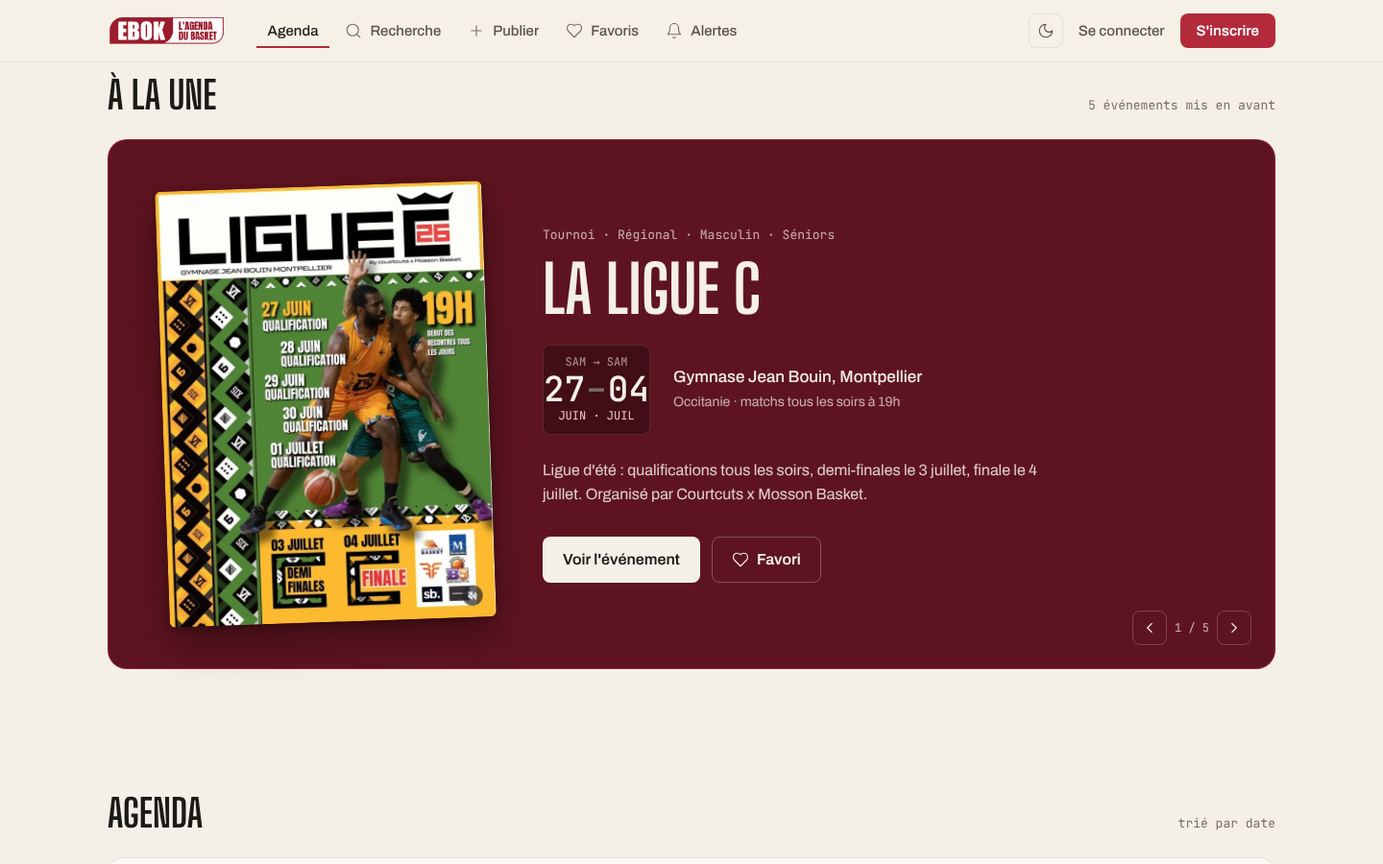
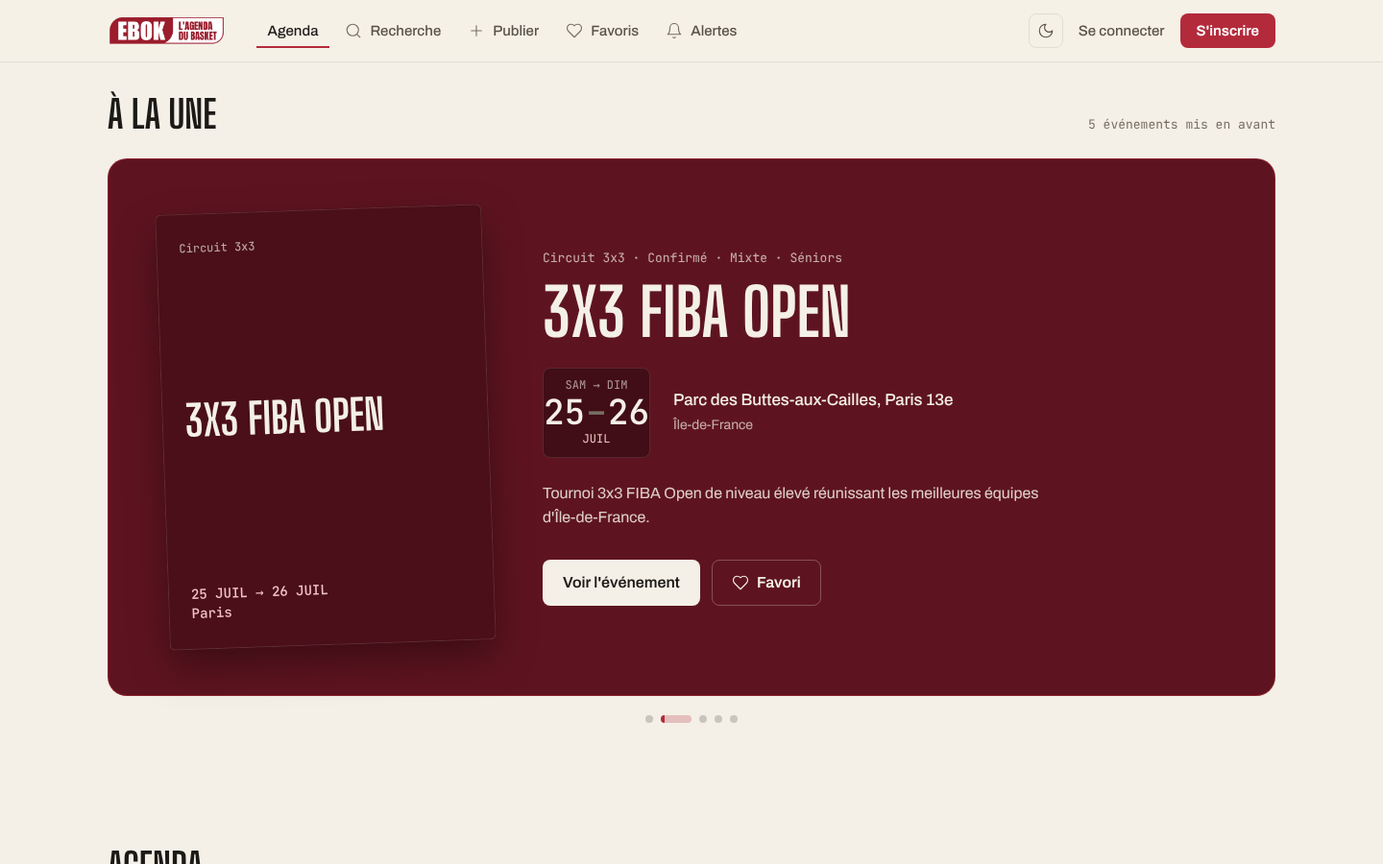
Maquette accueil v3 : recherche par nom, carrousel à points, pastilles bordeaux, planche de typos
Claude-Session: https://claude.ai/code/session_01XyUKpsj1AWNnaW1cNftfQd

Changed region(s): [[0.0625, 0.0933, 0.9375, 0.84], [0.0625, 0.9022, 0.1562, 1.0], [0.875, 0.9333, 0.9062, 0.9644]]

diff --git a/maquettes/unslop/accueil.html b/maquettes/unslop/accueil.html
@@ -80,6 +80,17 @@ h1 span{color:var(--accent);display:block}
 .search input::placeholder{color:var(--ink-3)}
 .search input::-webkit-search-cancel-button{-webkit-appearance:none}
 .search .btn{height:48px}
+.searchbox{position:relative}
+.suggest{position:absolute;left:0;right:0;top:calc(100% + 6px);z-index:5;background:var(--card);border:1px solid var(--line-2);border-radius:12px;padding:6px;box-shadow:0 12px 32px rgba(28,26,23,.12);margin:0;list-style:none}
+.suggest[hidden]{display:none}
+.suggest li{display:flex;align-items:center;gap:12px;padding:8px 10px;border-radius:8px;cursor:pointer}
+.suggest li[aria-selected=true],.suggest li:hover{background:var(--raised)}
+.suggest .sg-d{flex:none;width:64px;font:500 12px/16px var(--mono);color:var(--accent-ink)}
+.suggest .sg-t{font-weight:500;min-width:0;white-space:nowrap;overflow:hidden;text-overflow:ellipsis}
+.suggest .sg-c{margin-left:auto;font:400 12px var(--mono);color:var(--ink-3);white-space:nowrap}
+.suggest mark{background:none;color:inherit;text-decoration:underline;text-decoration-color:var(--accent);text-underline-offset:3px;text-decoration-thickness:2px}
+.suggest .sg-head{font:400 11px/16px var(--mono);color:var(--ink-3);padding:4px 10px 6px;cursor:default}
+.suggest .sg-head:hover{background:none}
 .understood{font:400 12px/16px var(--mono);color:var(--ink-3);margin:10px 0 0;min-height:16px}
 .understood b{font-weight:500;color:var(--ink)}
 .publish{display:flex;align-items:center;gap:12px;margin-top:28px;padding-top:20px;border-top:1px solid var(--line);color:var(--ink-2)}
@@ -109,7 +120,9 @@ h1 span{color:var(--accent);display:block}
 .pin circle{fill:var(--ink);stroke:var(--card);stroke-width:2}
 .pin-n{font:500 11px var(--mono);fill:var(--chalk);text-anchor:middle}
 .pin-l{font:500 12px var(--mono);fill:var(--ink);paint-order:stroke;stroke:#E7DFCF;stroke-width:4px;stroke-linejoin:round}
-.pin-feat circle{fill:var(--accent)}
+.pin-multi circle{fill:var(--accent)}
+.pin .ring{fill:none;stroke:var(--ink);stroke-width:2}
+.pin-feat:not(.pin-multi) circle.dot{fill:var(--accent)}
 .callout{opacity:0;transition:opacity .3s var(--ease)}
 .callout.on{opacity:1}
 .callout path{stroke:var(--ink);stroke-width:1.5;fill:none}
@@ -152,7 +165,7 @@ h2{font-family:var(--display);font-weight:var(--dw);font-size:40px;line-height:1
 .head .count{font-size:13px}
 
 /* à la une : fond bordeaux */
-.une{display:grid;grid-template-columns:340px minmax(0,1fr);gap:56px;align-items:center;background:var(--bordeaux);color:var(--chalk);border:1px solid rgba(179,42,59,.55);border-radius:20px;padding:48px 56px;position:relative}
+.une{display:grid;grid-template-columns:340px minmax(0,1fr);gap:56px;align-items:center;background:var(--bordeaux);color:var(--chalk);border:1px solid rgba(179,42,59,.55);border-radius:20px;padding:48px 56px;position:relative;min-height:560px}
 .poster{width:100%;height:auto;aspect-ratio:700/934;object-fit:cover;border-radius:6px;transform:rotate(-2deg);box-shadow:0 18px 40px rgba(0,0,0,.35),0 2px 6px rgba(0,0,0,.3)}
 .une-meta{font:400 13px/20px var(--mono);color:rgba(244,240,231,.7);margin:0 0 12px}
 .une h3{font-family:var(--display);font-weight:var(--dw);font-size:68px;line-height:1;letter-spacing:var(--dtrack);text-transform:var(--dcase);margin:0 0 24px}
@@ -169,9 +182,20 @@ h2{font-family:var(--display);font-weight:var(--dw);font-size:40px;line-height:1
 .btn-chalk:hover{background:#fff}
 .une .btn-line{background:transparent;border-color:rgba(244,240,231,.28);color:var(--chalk)}
 .une .btn-line:hover{background:rgba(244,240,231,.1)}
-.une-nav{position:absolute;right:24px;bottom:24px;display:flex;align-items:center;gap:8px;font:400 12px var(--mono);color:rgba(244,240,231,.7)}
-.une-nav button{width:36px;height:36px;border-radius:8px;border:1px solid rgba(244,240,231,.22);background:none;color:var(--chalk);display:grid;place-items:center}
-.une-nav button:hover{background:rgba(244,240,231,.1)}
+.une-in{display:contents}
+.une>*{transition:opacity .2s var(--ease)}
+.une.swap>*{opacity:0}
+.poster-vide{width:100%;aspect-ratio:700/934;border-radius:6px;transform:rotate(-2deg);background:#4A0F19;box-shadow:0 18px 40px rgba(0,0,0,.35),inset 0 0 0 1px rgba(244,240,231,.14);display:flex;flex-direction:column;justify-content:space-between;padding:28px 24px}
+.poster-vide .pv-t{font:400 12px/16px var(--mono);color:rgba(244,240,231,.7)}
+.poster-vide .pv-n{font-family:var(--display);font-weight:var(--dw);text-transform:var(--dcase);letter-spacing:var(--dtrack);font-size:44px;line-height:1;color:var(--chalk)}
+.poster-vide .pv-c{font:500 14px/20px var(--mono);color:#F2C2C8}
+.dots{display:flex;justify-content:center;gap:8px;margin-top:20px}
+.dots button{width:8px;height:8px;padding:0;border:0;border-radius:4px;background:rgba(28,26,23,.2);position:relative;overflow:hidden;transition:width .3s var(--ease),background-color .2s var(--ease)}
+.dots button:hover{background:rgba(28,26,23,.35)}
+.dots button[aria-current=true]{width:32px;background:rgba(179,42,59,.25)}
+.dots button[aria-current=true]::after{content:"";position:absolute;inset:0;background:var(--accent);transform-origin:left;transform:scaleX(0);animation:fill var(--dur,6s) linear forwards}
+.dots.pause button[aria-current=true]::after{animation-play-state:paused}
+@keyframes fill{to{transform:scaleX(1)}}
 
 /* agenda */
 .agenda{background:var(--card);border:1px solid var(--line);border-radius:16px;overflow:hidden}
@@ -232,10 +256,10 @@ footer{border-top:1px solid var(--line);margin-top:32px;padding:48px 0 32px}
   .zoom{top:8px;right:8px}
   section.block{padding:48px 0}
   h2{font-size:30px}
-  .une{grid-template-columns:1fr;padding:32px 20px 80px;gap:32px}
-  .poster{max-width:240px;margin:0 auto}
+  .une{grid-template-columns:1fr;padding:32px 20px 40px;gap:32px;min-height:0}
+  .poster,.poster-vide{max-width:240px;margin:0 auto}
+  .suggest .sg-c{display:none}
   .une h3{font-size:44px}
-  .une-nav{right:20px;bottom:20px}
   .row{gap:16px;padding:12px 16px}
   .row-t{font-size:16px;white-space:normal}
   .foot{grid-template-columns:1fr;gap:32px}
@@ -272,12 +296,15 @@ footer{border-top:1px solid var(--line);margin-top:32px;padding:48px 0 32px}
       <p class="kicker"><b>20</b> événements · <b>13</b> villes · France, Belgique, Suisse, Québec</p>
       <h1 id="titre">Partout où <span>ça joue</span></h1>
       <p class="sub">Tournois, camps, 3x3, détections : tout le basket francophone sur une seule carte.</p>
+      <div class="searchbox">
       <form class="search" id="search" role="search">
         <svg class="ic" viewBox="0 0 24 24" aria-hidden="true"><circle cx="11" cy="11" r="8"/><path d="m21 21-4.3-4.3"/></svg>
-        <input id="q" type="search" placeholder="Un camp à Lyon en juillet" aria-label="Rechercher un événement" autocomplete="off">
+        <input id="q" type="search" placeholder="Un camp à Lyon en juillet" aria-label="Rechercher un événement" autocomplete="off" role="combobox" aria-controls="suggest" aria-expanded="false">
         <button class="btn btn-ink" type="submit">Chercher</button>
       </form>
-      <p class="understood" id="understood" aria-live="polite"></p>
+      <ul class="suggest" id="suggest" role="listbox" hidden></ul>
+      </div>
+      <p class="understood" id="understood" aria-live="polite">Un type, une ville, un mois ou le nom d'un événement</p>
       <div class="publish">
         <span>Tu organises un événement ?</span>
         <a class="btn btn-line" href="#"><svg class="ic" viewBox="0 0 24 24" aria-hidden="true"><path d="M5 12h14"/><path d="M12 5v14"/></svg>Publier un événement</a>
@@ -315,23 +342,8 @@ footer{border-top:1px solid var(--line);margin-top:32px;padding:48px 0 32px}
 
   <section class="block" aria-labelledby="une">
     <div class="head"><h2 id="une">À la une</h2><span class="count">5 événements mis en avant</span></div>
-    <article class="une">
-      <img class="poster" src="assets/demo-ligue-c.jpg" alt="Affiche de La Ligue C 2026, gymnase Jean Bouin à Montpellier" width="700" height="934">
-      <div>
-        <p class="une-meta">Tournoi · Régional · Masculin · Séniors</p>
-        <h3>La Ligue C</h3>
-        <div class="une-row">
-          <span class="score score-big"><span class="sc-d">SAM → SAM</span><span class="sc-n">27<i>–</i>04</span><span class="sc-m">JUIN · JUIL</span></span>
-          <div class="une-where"><strong>Gymnase Jean Bouin, Montpellier</strong><span>Occitanie · matchs tous les soirs à 19h</span></div>
-        </div>
-        <p class="desc">Ligue d'été : qualifications tous les soirs, demi-finales le 3 juillet, finale le 4 juillet. Organisé par Courtcuts x Mosson Basket.</p>
-        <div class="actions">
-          <a class="btn btn-chalk btn-lg" href="#">Voir l'événement</a>
-          <a class="btn btn-line btn-lg" href="#"><svg class="ic" viewBox="0 0 24 24" aria-hidden="true"><path d="M19 14c1.49-1.46 3-3.21 3-5.5A5.5 5.5 0 0 0 16.5 3c-1.76 0-3 .5-4.5 2-1.5-1.5-2.74-2-4.5-2A5.5 5.5 0 0 0 2 8.5c0 2.3 1.5 4.05 3 5.5l7 7Z"/></svg>Favori</a>
-        </div>
-      </div>
-      <div class="une-nav"><button type="button" aria-label="Précédent"><svg class="ic" viewBox="0 0 24 24" aria-hidden="true"><path d="m15 18-6-6 6-6"/></svg></button><span>1 / 5</span><button type="button" aria-label="Suivant"><svg class="ic" viewBox="0 0 24 24" aria-hidden="true"><path d="m9 18 6-6-6-6"/></svg></button></div>
-    </article>
+    <article class="une" id="une-card" aria-live="polite"></article>
+    <div class="dots" id="dots" role="tablist" aria-label="Événements à la une"></div>
   </section>
 
   <section class="block" id="agenda" aria-labelledby="ag">
@@ -394,7 +406,8 @@ footer{border-top:1px solid var(--line);margin-top:32px;padding:48px 0 32px}
 </footer>
 
 <script>
-const EV = [{"t":"La Ligue C","ty":"Tournoi","c":"Montpellier","r":"Occitanie","s":"2026-06-27","e":"2026-07-04","f":true,"xy":[387,464.3]},{"t":"All-Star Game Île-de-France","ty":"All-Star Game","c":"Paris","r":"Île-de-France","s":"2026-07-11","e":"2026-07-11","f":false,"xy":[325,154]},{"t":"Camp d'été Ballers Academy","ty":"Camp","c":"Lyon","r":"Auvergne-Rhône-Alpes","s":"2026-07-13","e":"2026-07-17","f":false,"xy":[426,337]},{"t":"Basket Trip Riviera","ty":"Voyage","c":"Nice","r":"Provence-Alpes-Côte d'Azur","s":"2026-08-03","e":"2026-08-08","f":false,"xy":[524.6,458.5]},{"t":"Summer League Toulouse","ty":"Tournoi","c":"Toulouse","r":"Occitanie","s":"2026-07-20","e":"2026-07-26","f":false,"xy":[288.1,464.7]},{"t":"Camp Filles Ouest Basket","ty":"Camp","c":"Nantes","r":"Pays de la Loire","s":"2026-07-06","e":"2026-07-09","f":false,"xy":[166.3,250.9]},{"t":"Streetball Show Strasbourg","ty":"Show","c":"Strasbourg","r":"Grand Est","s":"2026-07-18","e":"2026-07-18","f":false,"xy":[544.5,170.8]},{"t":"Spring Cup Bordeaux","ty":"Tournoi","c":"Bordeaux","r":"Nouvelle-Aquitaine","s":"2026-05-09","e":"2026-05-10","f":false,"xy":[205.9,391.8]},{"t":"Winter Jam Lille","ty":"Show","c":"Lille","r":"Hauts-de-France","s":"2026-02-14","e":"2026-02-14","f":false,"xy":[353.7,49.2]},{"t":"3x3 FIBA Open — Paris Streetball","ty":"Circuit 3x3","c":"Paris","r":"Île-de-France","s":"2026-07-25","e":"2026-07-26","f":true,"xy":[325,154]},{"t":"3x3 Start Lyon — Découverte","ty":"Circuit 3x3","c":"Lyon","r":"Auvergne-Rhône-Alpes","s":"2026-08-08","e":"2026-08-09","f":false,"xy":[426,337]},{"t":"3x3 Growth Tour — Marseille","ty":"Circuit 3x3","c":"Marseille","r":"Provence-Alpes-Côte d'Azur","s":"2026-07-11","e":"2026-07-12","f":false,"xy":[447.7,482.9]},{"t":"Camp d'été ASVEL — Perfectionnement","ty":"Camp","c":"Lyon","r":"Auvergne-Rhône-Alpes","s":"2026-07-27","e":"2026-07-31","f":true,"xy":[426,337]},{"t":"Camp Feminin Cholet Basket","ty":"Camp","c":"Cholet","r":"Pays de la Loire","s":"2026-08-10","e":"2026-08-14","f":false,"xy":[193.7,260.3]},{"t":"Clinic NBA avec Tony Parker","ty":"Clinic Coachs","c":"Lyon","r":"Auvergne-Rhône-Alpes","s":"2026-07-06","e":"2026-07-06","f":true,"xy":[426,337]},{"t":"Détection NBB — Scouts Pro","ty":"Détections","c":"Limoges","r":"Nouvelle-Aquitaine","s":"2026-06-20","e":"2026-06-20","f":false,"xy":[280.7,332.9]},{"t":"Matchs de Gala — Choc des Générations","ty":"Match Pro","c":"Paris","r":"Île-de-France","s":"2026-09-12","e":"2026-09-12","f":false,"xy":[325,154]},{"t":"Tournoi Handibasket — Open Sud","ty":"Handibasket","c":"Toulouse","r":"Occitanie","s":"2026-06-12","e":"2026-06-14","f":false,"xy":[288.1,464.7]},{"t":"Tournoi Juniors Atlantique","ty":"Tournoi","c":"Nantes","r":"Pays de la Loire","s":"2026-07-19","e":"2026-07-21","f":false,"xy":[166.3,250.9]},{"t":"Voyage Basketball — Semaine Corse","ty":"Voyage","c":"Bastia","r":"Corse","s":"2026-08-16","e":"2026-08-22","f":true,"xy":[613.6,518.2]}];
+const EV = [{"t":"La Ligue C","ty":"Tournoi","c":"Montpellier","r":"Occitanie","s":"2026-06-27","e":"2026-07-04","f":true,"xy":[387,464.3],"lieu":"Gymnase Jean Bouin, Montpellier","niv":"Confirmé","ag":"Séniors","sx":"Masculin","d":"Tournoi ligue d'été qui se joue du 27 juin au 4 juillet 2026 au gymnase Jean Bouin de Montpellier.","p":"assets/demo-ligue-c.jpg"},{"t":"All-Star Game Île-de-France","ty":"All-Star Game","c":"Paris","r":"Île-de-France","s":"2026-07-11","e":"2026-07-11","f":false,"xy":[325,154],"lieu":"COSEC Binet, Paris 19e","niv":"Confirmé","ag":"Séniors","sx":"Mixte","d":"Soirée all-star game réunissant les meilleurs profils street d'Île-de-France : concours de dunks, 3 points contest et match des étoiles devant le public parisien.","p":""},{"t":"Camp d'été Ballers Academy","ty":"Camp","c":"Lyon","r":"Auvergne-Rhône-Alpes","s":"2026-07-13","e":"2026-07-17","f":false,"xy":[426,337],"lieu":"Halle Diagana, Lyon","niv":"Amateur","ag":"Ados","sx":"Mixte","d":"Camp d'entraînement sur 5 jours pour ados : fondamentaux, ateliers tir, préparation physique et tournoi de clôture le vendredi.","p":""},{"t":"Basket Trip Riviera","ty":"Voyage","c":"Nice","r":"Provence-Alpes-Côte d'Azur","s":"2026-08-03","e":"2026-08-08","f":false,"xy":[524.6,458.5],"lieu":"Plages du Prado & terrains extérieurs, Nice","niv":"Loisir","ag":"Séniors","sx":"Mixte","d":"Une semaine sur la Côte d'Azur mêlant basket outdoor, plage et soirées : tournois 3x3 en journée, sessions libres et activités entre joueurs venus de toute la France.","p":""},{"t":"Summer League Toulouse","ty":"Tournoi","c":"Toulouse","r":"Occitanie","s":"2026-07-20","e":"2026-07-26","f":false,"xy":[288.1,464.7],"lieu":"Gymnase du Mirail, Toulouse","niv":"Semi-pro / Pro","ag":"Séniors","sx":"Masculin","d":"Compétition en poules puis phase finale à élimination directe, ouverte aux équipes régionales confirmées.","p":""},{"t":"Camp Filles Ouest Basket","ty":"Camp","c":"Nantes","r":"Pays de la Loire","s":"2026-07-06","e":"2026-07-09","f":false,"xy":[166.3,250.9],"lieu":"Complexe sportif Beaulieu, Nantes","niv":"Amateur","ag":"Ados","sx":"Féminin","d":"Camp dédié aux jeunes joueuses : renforcement technique, préparation mentale et rencontre avec des joueuses professionnelles de la région.","p":""},{"t":"Streetball Show Strasbourg","ty":"Show","c":"Strasbourg","r":"Grand Est","s":"2026-07-18","e":"2026-07-18","f":false,"xy":[544.5,170.8],"lieu":"Place Kléber, Strasbourg","niv":"Loisir","ag":"Séniors","sx":"Mixte","d":"Exhibition en plein cœur de ville : freestyle, dunks et animations musicales pour un show basket ouvert à tous les publics.","p":""},{"t":"Spring Cup Bordeaux","ty":"Tournoi","c":"Bordeaux","r":"Nouvelle-Aquitaine","s":"2026-05-09","e":"2026-05-10","f":false,"xy":[205.9,391.8],"lieu":"Palais des Sports, Bordeaux","niv":"Amateur","ag":"Séniors","sx":"Mixte","d":"Tournoi de printemps en 5x5, deux jours de poules et phase finale.","p":""},{"t":"Winter Jam Lille","ty":"Show","c":"Lille","r":"Hauts-de-France","s":"2026-02-14","e":"2026-02-14","f":false,"xy":[353.7,49.2],"lieu":"Grand Palais, Lille","niv":"Loisir","ag":"Séniors","sx":"Mixte","d":"Show hivernal indoor avec concours de dunks et animations DJ.","p":""},{"t":"3x3 FIBA Open — Paris Streetball","ty":"Circuit 3x3","c":"Paris","r":"Île-de-France","s":"2026-07-25","e":"2026-07-26","f":true,"xy":[325,154],"lieu":"Parc des Buttes-aux-Cailles, Paris 13e","niv":"Confirmé","ag":"Séniors","sx":"Mixte","d":"Tournoi 3x3 FIBA Open de niveau élevé réunissant les meilleures équipes d'Île-de-France.","p":""},{"t":"3x3 Start Lyon — Découverte","ty":"Circuit 3x3","c":"Lyon","r":"Auvergne-Rhône-Alpes","s":"2026-08-08","e":"2026-08-09","f":false,"xy":[426,337],"lieu":"Parc de la Tête d'Or, Lyon","niv":"Amateur","ag":"Ados","sx":"Mixte","d":"Circuit 3x3 START pour débuter en compétition 3x3.","p":""},{"t":"3x3 Growth Tour — Marseille","ty":"Circuit 3x3","c":"Marseille","r":"Provence-Alpes-Côte d'Azur","s":"2026-07-11","e":"2026-07-12","f":false,"xy":[447.7,482.9],"lieu":"Plage du Prado, Marseille","niv":"Amateur","ag":"Séniors","sx":"Mixte","d":"3x3 Growth Tour sur les plages du Prado — compétition de milieu de gamme, tremplin vers l'Open.","p":""},{"t":"Camp d'été ASVEL — Perfectionnement","ty":"Camp","c":"Lyon","r":"Auvergne-Rhône-Alpes","s":"2026-07-27","e":"2026-07-31","f":true,"xy":[426,337],"lieu":"Pôle France ASVEL, Villeurbanne","niv":"Confirmé","ag":"Ados","sx":"Mixte","d":"Camp d'été du centre de formation ASVEL.","p":""},{"t":"Camp Feminin Cholet Basket","ty":"Camp","c":"Cholet","r":"Pays de la Loire","s":"2026-08-10","e":"2026-08-14","f":false,"xy":[193.7,260.3],"lieu":"Aréna Metz Handball, Cholet","niv":"Amateur","ag":"Ados","sx":"Féminin","d":"Camp d'entraînement féminin spécialisé.","p":""},{"t":"Clinic NBA avec Tony Parker","ty":"Clinic Coachs","c":"Lyon","r":"Auvergne-Rhône-Alpes","s":"2026-07-06","e":"2026-07-06","f":true,"xy":[426,337],"lieu":"Astroballe ASVEL, Villeurbanne","niv":"Confirmé","ag":"Séniors","sx":"Mixte","d":"Masterclass exceptionnelle avec la légende Tony Parker.","p":""},{"t":"Détection NBB — Scouts Pro","ty":"Détections","c":"Limoges","r":"Nouvelle-Aquitaine","s":"2026-06-20","e":"2026-06-20","f":false,"xy":[280.7,332.9],"lieu":"Complexe Beaulieu, Limoges","niv":"Confirmé","ag":"Séniors","sx":"Mixte","d":"Séance de détection organisée par les scouts des clubs professionnels de la NBB.","p":""},{"t":"Matchs de Gala — Choc des Générations","ty":"Match Pro","c":"Paris","r":"Île-de-France","s":"2026-09-12","e":"2026-09-12","f":false,"xy":[325,154],"lieu":"AccorHotels Arena, Paris","niv":"Semi-pro / Pro","ag":"Séniors","sx":"Mixte","d":"Soirée de gala avec matchs opposant les légendes du basketball français aux jeunes talents.","p":""},{"t":"Tournoi Handibasket — Open Sud","ty":"Handibasket","c":"Toulouse","r":"Occitanie","s":"2026-06-12","e":"2026-06-14","f":false,"xy":[288.1,464.7],"lieu":"Palais des Sports de Toulouse","niv":"Confirmé","ag":"Séniors","sx":"Mixte","d":"Tournoi régional handbasket réunissant les équipes du sud.","p":""},{"t":"Tournoi Juniors Atlantique","ty":"Tournoi","c":"Nantes","r":"Pays de la Loire","s":"2026-07-19","e":"2026-07-21","f":false,"xy":[166.3,250.9],"lieu":"Complexe des Oiseaux, Nantes","niv":"Amateur","ag":"Ados","sx":"Mixte","d":"Tournoi U18 interrégional réunissant les meilleures équipes juniors.","p":""},{"t":"Voyage Basketball — Semaine Corse","ty":"Voyage","c":"Bastia","r":"Corse","s":"2026-08-16","e":"2026-08-22","f":true,"xy":[613.6,518.2],"lieu":"Multisports Sporting, Bastia","niv":"Loisir","ag":"Séniors","sx":"Mixte","d":"Une semaine en Corse mêlant basketball, plage et découverte.","p":""}];
+const AIDE = 'Un type, une ville, un mois ou le nom d\'un événement';
 const MOIS_C = ['JANV','FÉVR','MARS','AVR','MAI','JUIN','JUIL','AOÛT','SEPT','OCT','NOV','DÉC'];
 const MOIS_L = ['janvier','février','mars','avril','mai','juin','juillet','août','septembre','octobre','novembre','décembre'];
 const NS = 'http://www.w3.org/2000/svg';
@@ -406,7 +419,7 @@ const VB = { x: 40, y: 20, w: 600, h: 600 };
 
 /* ---- lecture d'une phrase : « un camp à Lyon en juillet » ---- */
 const TYPE_MOTS = [
-  [/3 ?x ?3/, 'Circuit 3x3'], [/\bcamps?\b|\bstages?\b/, 'Camp'], [/tournois?|\bligue/, 'Tournoi'],
+  [/3 ?x ?3/, 'Circuit 3x3'], [/\bcamps?\b|\bstages?\b/, 'Camp'], [/tournois?/, 'Tournoi'],
   [/detections?|recrutement|scout/, 'Détections'], [/clinics?|coachs?\b|formation/, 'Clinic Coachs'],
   [/voyages?|sejours?|\btrip/, 'Voyage'], [/\bshows?\b|streetball|dunk/, 'Show'], [/all.?star/, 'All-Star Game'],
   [/handi/, 'Handibasket'], [/gala|match(s)? pro/, 'Match Pro'],
@@ -422,6 +435,58 @@ function lire(q) {
   return f;
 }
 
+/* ---- recherche par nom ---- */
+const STOP = new Set('je j cherche cherches recherche trouver veux voudrais un une des le la les l a au aux en de du d pour sur mois cet cette ce et pres chez dans vers moi on nous qui avec basket basketball evenement evenements event events'.split(' '));
+const MOIS_N = MOIS_L.map(norm);
+function mots(q) { return norm(q).split(/[^a-z0-9]+/).filter(w => w && !STOP.has(w)); }
+function explique(w, f) {
+  if (TYPE_MOTS.some(([re]) => re.test(w))) return true;
+  if (f.city && norm(f.city) === w) return true;
+  if (w === 'villeurbanne' || w === 'ete' || MOIS_N.includes(w)) return true;
+  if (f.region && norm(f.region).split(/[^a-z]+/).includes(w)) return true;
+  return false;
+}
+const foin = e => norm(e.t + ' ' + e.c + ' ' + e.lieu);
+let nom = [];   // mots du nom recherché, en plus des filtres
+function parNom(e) { const h = foin(e); return nom.every(w => h.includes(w)); }
+
+/* ---- suggestions pendant la frappe ---- */
+let sel = -1, propositions = [];
+function dateCourte(e) { const a = new Date(e.s); return String(a.getDate()).padStart(2, '0') + ' ' + MOIS_C[a.getMonth()]; }
+function souligne(txt, ws) {
+  let out = txt.replace(/&/g, '&amp;').replace(/</g, '&lt;');
+  for (const w of ws) {
+    const n = norm(out), i = n.indexOf(w);
+    if (w.length > 1 && i >= 0) out = out.slice(0, i) + '<mark>' + out.slice(i, i + w.length) + '</mark>' + out.slice(i + w.length);
+  }
+  return out;
+}
+function suggerer() {
+  const ws = mots($('q').value), box = $('suggest');
+  propositions = ws.length && ws.join('').length >= 2 ? EV.filter(e => { const h = foin(e); return ws.every(w => h.includes(w)); }).sort((a, b) => a.s.localeCompare(b.s)).slice(0, 5) : [];
+  sel = -1;
+  if (!propositions.length) { box.hidden = true; $('q').setAttribute('aria-expanded', 'false'); return; }
+  box.innerHTML = '<li class="sg-head" role="presentation">Événements</li>' + propositions.map((e, i) =>
+    `<li role="option" id="sg${i}" data-i="${i}" aria-selected="false"><span class="sg-d">${dateCourte(e)}</span><span class="sg-t">${souligne(e.t, ws)}</span><span class="sg-c">${e.c}</span></li>`).join('');
+  box.hidden = false; $('q').setAttribute('aria-expanded', 'true');
+}
+function fermer() { $('suggest').hidden = true; $('q').setAttribute('aria-expanded', 'false'); sel = -1; }
+function choisir(e) { $('q').value = e.t; fermer(); $('search').requestSubmit(); }
+$('q').addEventListener('input', suggerer);
+$('q').addEventListener('keydown', ev => {
+  const items = [...$('suggest').querySelectorAll('[role=option]')];
+  if ($('suggest').hidden || !items.length) return;
+  if (ev.key === 'ArrowDown' || ev.key === 'ArrowUp') {
+    ev.preventDefault();
+    sel = (sel + (ev.key === 'ArrowDown' ? 1 : -1) + items.length) % items.length;
+    items.forEach((li, i) => li.setAttribute('aria-selected', i === sel));
+    $('q').setAttribute('aria-activedescendant', 'sg' + sel);
+  } else if (ev.key === 'Enter' && sel >= 0) { ev.preventDefault(); choisir(propositions[sel]); }
+  else if (ev.key === 'Escape') fermer();
+});
+$('suggest').addEventListener('mousedown', ev => { const li = ev.target.closest('[data-i]'); if (li) { ev.preventDefault(); choisir(propositions[+li.dataset.i]); } });
+$('q').addEventListener('blur', () => setTimeout(fermer, 100));
+
 /* ---- filtres ---- */
 function filtres() { return { type: $('type').value, city: $('city').value.trim(), region: $('region').value, month: $('month').value }; }
 function poser(f) {
@@ -435,6 +500,7 @@ function marquer() {
   $('fMonth').classList.toggle('set', !!$('month').value);
 }
 function garde(e, f) {
+  if (nom.length && !parNom(e)) return false;
   if (f.type && e.ty !== f.type) return false;
   if (f.city && norm(e.c) !== norm(f.city)) return false;
   if (f.region && e.r !== f.region) return false;
@@ -459,14 +525,15 @@ function dessiner(liste, f) {
   for (const e of liste) (groupes[e.c] ||= []).push(e);
   // l'événement mis en avant : le plus proche en date parmi les résultats (ou La Ligue C sans filtre)
   const tri = [...liste].sort((a, b) => a.s.localeCompare(b.s));
-  const actif = (Object.values(f).some(v => v) ? tri[0] : liste.find(e => e.f && e.c === 'Montpellier')) || null;
+  const actif = (Object.values(f).some(v => v) || nom.length ? tri[0] : liste.find(e => e.f && e.c === 'Montpellier')) || null;
   for (const [c, evs] of Object.entries(groupes)) {
     const [x, y] = evs[0].xy, r = evs.length > 1 ? 11 : 6;
     const feat = actif && actif.c === c;
     const left = LEFT.has(c);
     const dy = c === 'Cholet' ? 14 : c === 'Montpellier' && !f.city ? -10 : 4;
-    const pin = el('g', { class: 'pin' + (feat ? ' pin-feat' : ''), 'data-y': y });
-    pin.append(el('circle', { cx: x, cy: y, r }));
+    const pin = el('g', { class: 'pin' + (feat ? ' pin-feat' : '') + (evs.length > 1 ? ' pin-multi' : ''), 'data-y': y });
+    if (feat) pin.append(el('circle', { class: 'ring', cx: x, cy: y, r: r + 4 }));
+    pin.append(el('circle', { class: 'dot', cx: x, cy: y, r }));
     if (evs.length > 1) pin.append(el('text', { class: 'pin-n', x, y: y + 4 }, evs.length));
     pin.append(el('text', { class: 'pin-l', x: left ? x - r - 6 : x + r + 6, y: y + dy, 'text-anchor': left ? 'end' : 'start' }, c));
     g.append(pin);
@@ -485,7 +552,7 @@ function dessiner(liste, f) {
     co.append(el('text', { class: 'co-t', x: bx + 12, y: by + 46 }, t));
   }
   // régions : celles qui ont un résultat ressortent quand un filtre est posé
-  const filtre = Object.values(f).some(v => v);
+  const filtre = Object.values(f).some(v => v) || nom.length > 0;
   const avec = new Set(liste.map(e => e.r));
   for (const p of $('reg').children) {
     const nom = p.querySelector('title').textContent;
@@ -523,21 +590,69 @@ function appliquer() {
 }
 
 /* ---- branchements ---- */
-['type', 'region', 'month'].forEach(id => $(id).addEventListener('change', () => { $('understood').textContent = ''; appliquer(); }));
-let tCity; $('city').addEventListener('input', () => { clearTimeout(tCity); tCity = setTimeout(appliquer, 400); });
+['type', 'region', 'month'].forEach(id => $(id).addEventListener('change', () => { nom = []; $('understood').textContent = AIDE; appliquer(); }));
+let tCity; $('city').addEventListener('input', () => { clearTimeout(tCity); tCity = setTimeout(() => { nom = []; appliquer(); }, 400); });
 $('search').addEventListener('submit', ev => {
-  ev.preventDefault();
+  ev.preventDefault(); fermer();
   const q = $('q').value.trim();
   const f = lire(q);
+  // les mots qui ne sont ni un type, ni une ville, ni un mois : on les cherche dans les noms
+  const reste = mots(q).filter(w => !explique(w, f));
+  nom = reste.length && EV.some(e => { const h = foin(e); return reste.every(w => h.includes(w)); }) ? reste : [];
+  if (nom.length) { const h = EV.filter(parNom); if (f.city && !h.some(e => e.c === f.city)) f.city = ''; }
   poser(f);
   const liste = appliquer();
-  const mots = [f.type, f.city, f.region, f.month === 'ete' ? 'cet été' : f.month !== '' ? MOIS_L[+f.month] : ''].filter(Boolean);
-  $('understood').innerHTML = q ? (mots.length
-    ? 'Compris : <b>' + mots.join(' · ') + '</b> — ' + liste.length + ' résultat' + (liste.length > 1 ? 's' : '')
-    : 'Je n\'ai pas reconnu de type, de ville ni de mois, essaie « tournoi à Paris en juillet »') : '';
+  const pluriel = n => n + ' résultat' + (n > 1 ? 's' : '');
+  const crit = [f.type, f.city, f.region, f.month === 'ete' ? 'cet été' : f.month !== '' ? MOIS_L[+f.month] : ''].filter(Boolean);
+  let msg = '';
+  if (q && nom.length && liste.length === 1) msg = 'Trouvé : <b>' + liste[0].t + '</b> — ' + liste[0].c + ', ' + dates(liste[0]).toLowerCase();
+  else if (q && nom.length) msg = 'Nom contenant <b>« ' + nom.join(' ') + ' »</b>' + (crit.length ? ' · <b>' + crit.join(' · ') + '</b>' : '') + ' — ' + pluriel(liste.length);
+  else if (q && crit.length) msg = 'Compris : <b>' + crit.join(' · ') + '</b> — ' + pluriel(liste.length) + (reste.length ? ' · aucun événement ne s\'appelle « ' + reste.join(' ') + ' »' : '');
+  else if (q) msg = 'Aucun type, ville, mois ou nom d\'événement reconnu, essaie « tournoi à Paris en juillet » ou « ASVEL »';
+  $('understood').innerHTML = msg;
   if (innerWidth <= 1080) $('fr').scrollIntoView({ behavior: reduce ? 'auto' : 'smooth', block: 'center' });
 });
-document.addEventListener('click', ev => { if (ev.target.closest('[data-reset]')) { poser({ type: '', city: '', region: '', month: '' }); $('q').value = ''; $('understood').textContent = ''; appliquer(); } });
+document.addEventListener('click', ev => { if (ev.target.closest('[data-reset]')) { nom = []; poser({ type: '', city: '', region: '', month: '' }); $('q').value = ''; $('understood').textContent = AIDE; appliquer(); } });
+
+/* ---- À la une : carrousel à petits ronds ---- */
+const UNE = EV.filter(e => e.f).sort((a, b) => (b.c === 'Montpellier') - (a.c === 'Montpellier'));
+const JOURS_C = ['DIM','LUN','MAR','MER','JEU','VEN','SAM'];
+const HEART = document.querySelector('.nav a:nth-child(4) svg').outerHTML;
+function tableau(e) {
+  const a = new Date(e.s), b = new Date(e.e), p = n => String(n).padStart(2, '0');
+  if (e.s === e.e) return `<span class="score score-big"><span class="sc-d">${JOURS_C[a.getDay()]}</span><span class="sc-n">${p(a.getDate())}</span><span class="sc-m">${MOIS_C[a.getMonth()]}</span></span>`;
+  return `<span class="score score-big"><span class="sc-d">${JOURS_C[a.getDay()]} → ${JOURS_C[b.getDay()]}</span><span class="sc-n">${p(a.getDate())}<i>–</i>${p(b.getDate())}</span><span class="sc-m">${MOIS_C[a.getMonth()]}${a.getMonth() !== b.getMonth() ? ' · ' + MOIS_C[b.getMonth()] : ''}</span></span>`;
+}
+function diapo(e) {
+  const affiche = e.p
+    ? `<img class="poster" src="${e.p}" alt="Affiche de ${e.t}" width="700" height="934">`
+    : `<div class="poster-vide" aria-hidden="true"><span class="pv-t">${e.ty}</span><span class="pv-n">${e.t.split(' — ')[0]}</span><span class="pv-c">${dates(e)}<br>${e.c}</span></div>`;
+  return `${affiche}<div>
+    <p class="une-meta">${e.ty} · ${e.niv} · ${e.sx} · ${e.ag}</p>
+    <h3>${e.t.split(' — ')[0]}</h3>
+    <div class="une-row">${tableau(e)}<div class="une-where"><strong>${e.lieu}</strong><span>${e.r}</span></div></div>
+    <p class="desc">${e.d}</p>
+    <div class="actions"><a class="btn btn-chalk btn-lg" href="#">Voir l'événement</a><a class="btn btn-line btn-lg" href="#">${HEART}Favori</a></div>
+  </div>`;
+}
+let cur = 0, tUne;
+const DUREE = 6000;
+function montrer(i, anime) {
+  cur = (i + UNE.length) % UNE.length;
+  const card = $('une-card');
+  const poserDiapo = () => { card.innerHTML = diapo(UNE[cur]); card.classList.remove('swap'); };
+  if (anime && !reduce) { card.classList.add('swap'); setTimeout(poserDiapo, 200); } else poserDiapo();
+  $('dots').innerHTML = UNE.map((e, k) => `<button type="button" role="tab" aria-label="${e.t}" aria-current="${k === cur}" style="--dur:${DUREE}ms"></button>`).join('');
+  clearTimeout(tUne);
+  if (!reduce && !$('dots').classList.contains('pause')) tUne = setTimeout(() => montrer(cur + 1, true), DUREE);
+}
+$('dots').addEventListener('click', ev => { const b = ev.target.closest('button'); if (b) montrer([...$('dots').children].indexOf(b), true); });
+const zone = [$('une-card'), $('dots')];
+zone.forEach(z => {
+  z.addEventListener('mouseenter', () => { $('dots').classList.add('pause'); clearTimeout(tUne); });
+  z.addEventListener('mouseleave', () => { $('dots').classList.remove('pause'); montrer(cur, false); });
+});
+montrer(0, false);
 
 // Entrée : la carte se dessine par un premier balayage
 appliquer();

diff --git a/maquettes/unslop/typos.html b/maquettes/unslop/typos.html
@@ -1,0 +1,48 @@
+<!DOCTYPE html>
+<html lang="fr"><head><meta charset="UTF-8"><meta name="viewport" content="width=device-width, initial-scale=1.0">
+<title>EBOK — planche de typos</title>
+<link rel="preconnect" href="https://fonts.googleapis.com">
+<link href="https://fonts.googleapis.com/css2?family=Anton&family=Oswald:wght@500;600&family=Bebas+Neue&family=Teko:wght@500;600&family=Saira+Condensed:wght@600;700&family=Saira:wght@400;600&family=Exo+2:wght@400;600;700&family=Rajdhani:wght@500;700&family=Orbitron:wght@600;700&family=Oxanium:wght@400;600;700&family=Unbounded:wght@500;600&family=Russo+One&family=Archivo:wght@400;500&family=JetBrains+Mono:wght@400;500&display=swap" rel="stylesheet">
+<style>
+:root{--bg:#F4F0E7;--card:#FBF9F4;--ink:#1C1A17;--ink-2:#5A5248;--ink-3:#776F64;--accent:#B32A3B;--bordeaux:#5E1420;--chalk:#F4F0E7;--line:rgba(28,26,23,.09)}
+*{box-sizing:border-box}body{margin:0;background:var(--bg);color:var(--ink);font:400 15px/22px 'Archivo',sans-serif;padding:40px 32px}
+h1{font:500 22px/28px 'Archivo';margin:0 0 4px}
+.intro{color:var(--ink-2);margin:0 0 32px}
+.grid{display:grid;grid-template-columns:repeat(3,minmax(0,1fr));gap:16px;max-width:1376px}
+.card{background:var(--card);border:1px solid var(--line);border-radius:16px;padding:20px 24px 24px;display:flex;flex-direction:column;gap:14px}
+.meta{display:flex;justify-content:space-between;font:400 12px/16px 'JetBrains Mono',monospace;color:var(--ink-3)}
+.meta b{font-weight:500;color:var(--ink)}
+.h{font-size:56px;line-height:.98;margin:0;text-transform:uppercase}
+.h span{display:block;color:var(--accent)}
+.p{color:var(--ink-2);font-size:16px;line-height:24px;margin:0}
+.une{background:var(--bordeaux);color:var(--chalk);border-radius:10px;padding:14px 16px;display:flex;justify-content:space-between;align-items:baseline}
+.une .t{font-size:30px;line-height:1;text-transform:uppercase}
+.une .d{font:500 12px 'JetBrains Mono',monospace;color:#F2C2C8}
+@media (max-width:900px){.grid{grid-template-columns:1fr}body{padding:24px 16px}}
+</style></head><body>
+<h1>Planche de typos pour EBOK</h1>
+<p class="intro">Même titre, même phrase, même bloc « À la une » dans chaque police. Réponds avec un numéro (ou deux pour mélanger titres et texte).</p>
+<div class="grid" id="g"></div>
+<script>
+const F=[
+ ['Anton','Anton',400,'Archivo','La typo actuelle du site, pour comparer'],
+ ['Oswald','Oswald',600,'Oswald','Celle de la carte Instagram de l\'admin'],
+ ['Bebas Neue','Bebas Neue',400,'Archivo','Affiche de match, très condensée'],
+ ['Teko','Teko',600,'Teko','Sport et tech, compacte'],
+ ['Saira Condensed','Saira Condensed',700,'Saira','Équipementier sportif, nette'],
+ ['Exo 2','Exo 2',700,'Exo 2','Futuriste, se lit bien en texte'],
+ ['Rajdhani','Rajdhani',700,'Rajdhani','Futuriste carrée, tableau d\'affichage'],
+ ['Orbitron','Orbitron',700,'Archivo','Très futuriste, pour les titres seulement'],
+ ['Oxanium','Oxanium',700,'Oxanium','Futuriste anguleuse, jeu vidéo'],
+ ['Unbounded','Unbounded',600,'Archivo','Large et ronde, moderne'],
+ ['Russo One','Russo One',400,'Archivo','Sport mécanique, massive'],
+ ['Saira','Saira',600,'Saira','Large et technique, plus douce'],
+];
+document.getElementById('g').innerHTML=F.map(([n,f,w,body,desc],i)=>`<div class="card">
+ <div class="meta"><span><b>${i+1}. ${n}</b>${body!==f?' + '+body:''}</span><span>${desc}</span></div>
+ <p class="h" style="font-family:'${f}';font-weight:${w}">Partout où <span>ça joue</span></p>
+ <p class="p" style="font-family:'${body}'">Tournois, camps, 3x3, détections : tout le basket francophone sur une seule carte.</p>
+ <div class="une"><span class="t" style="font-family:'${f}';font-weight:${w}">La Ligue C</span><span class="d">27–04 JUIN · JUIL</span></div>
+</div>`).join('');
+</script>
+</body></html>
